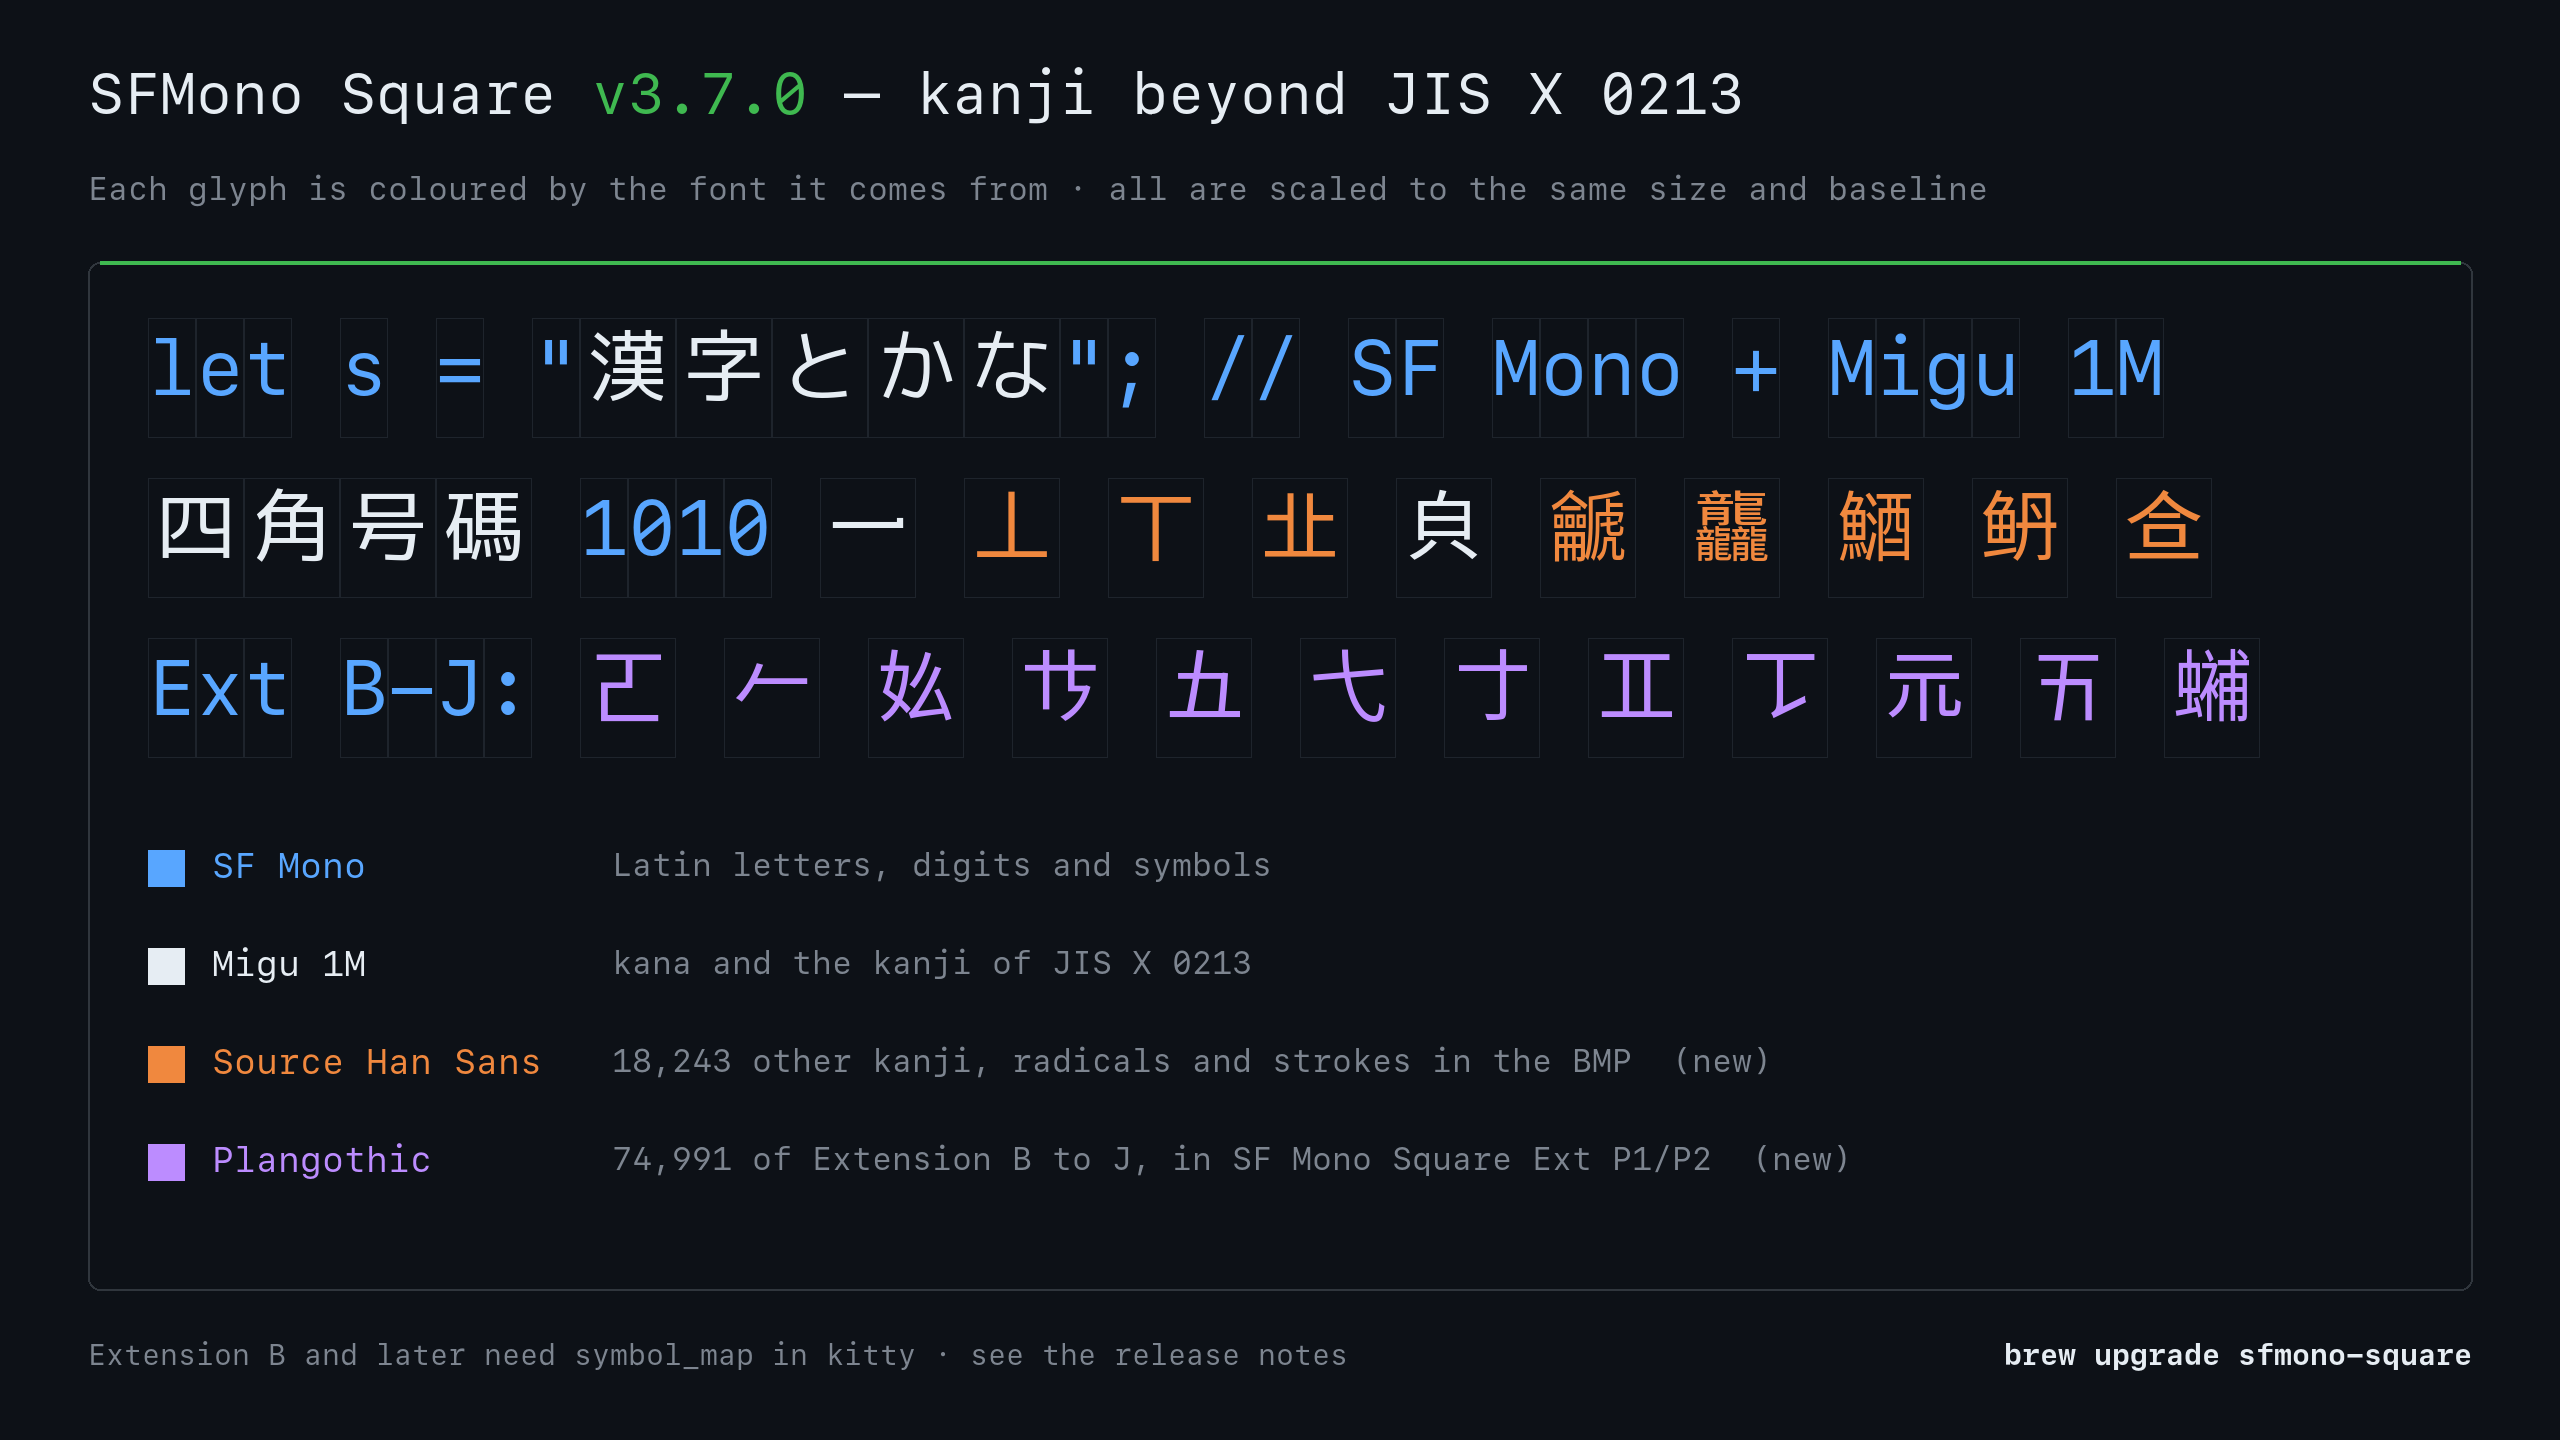
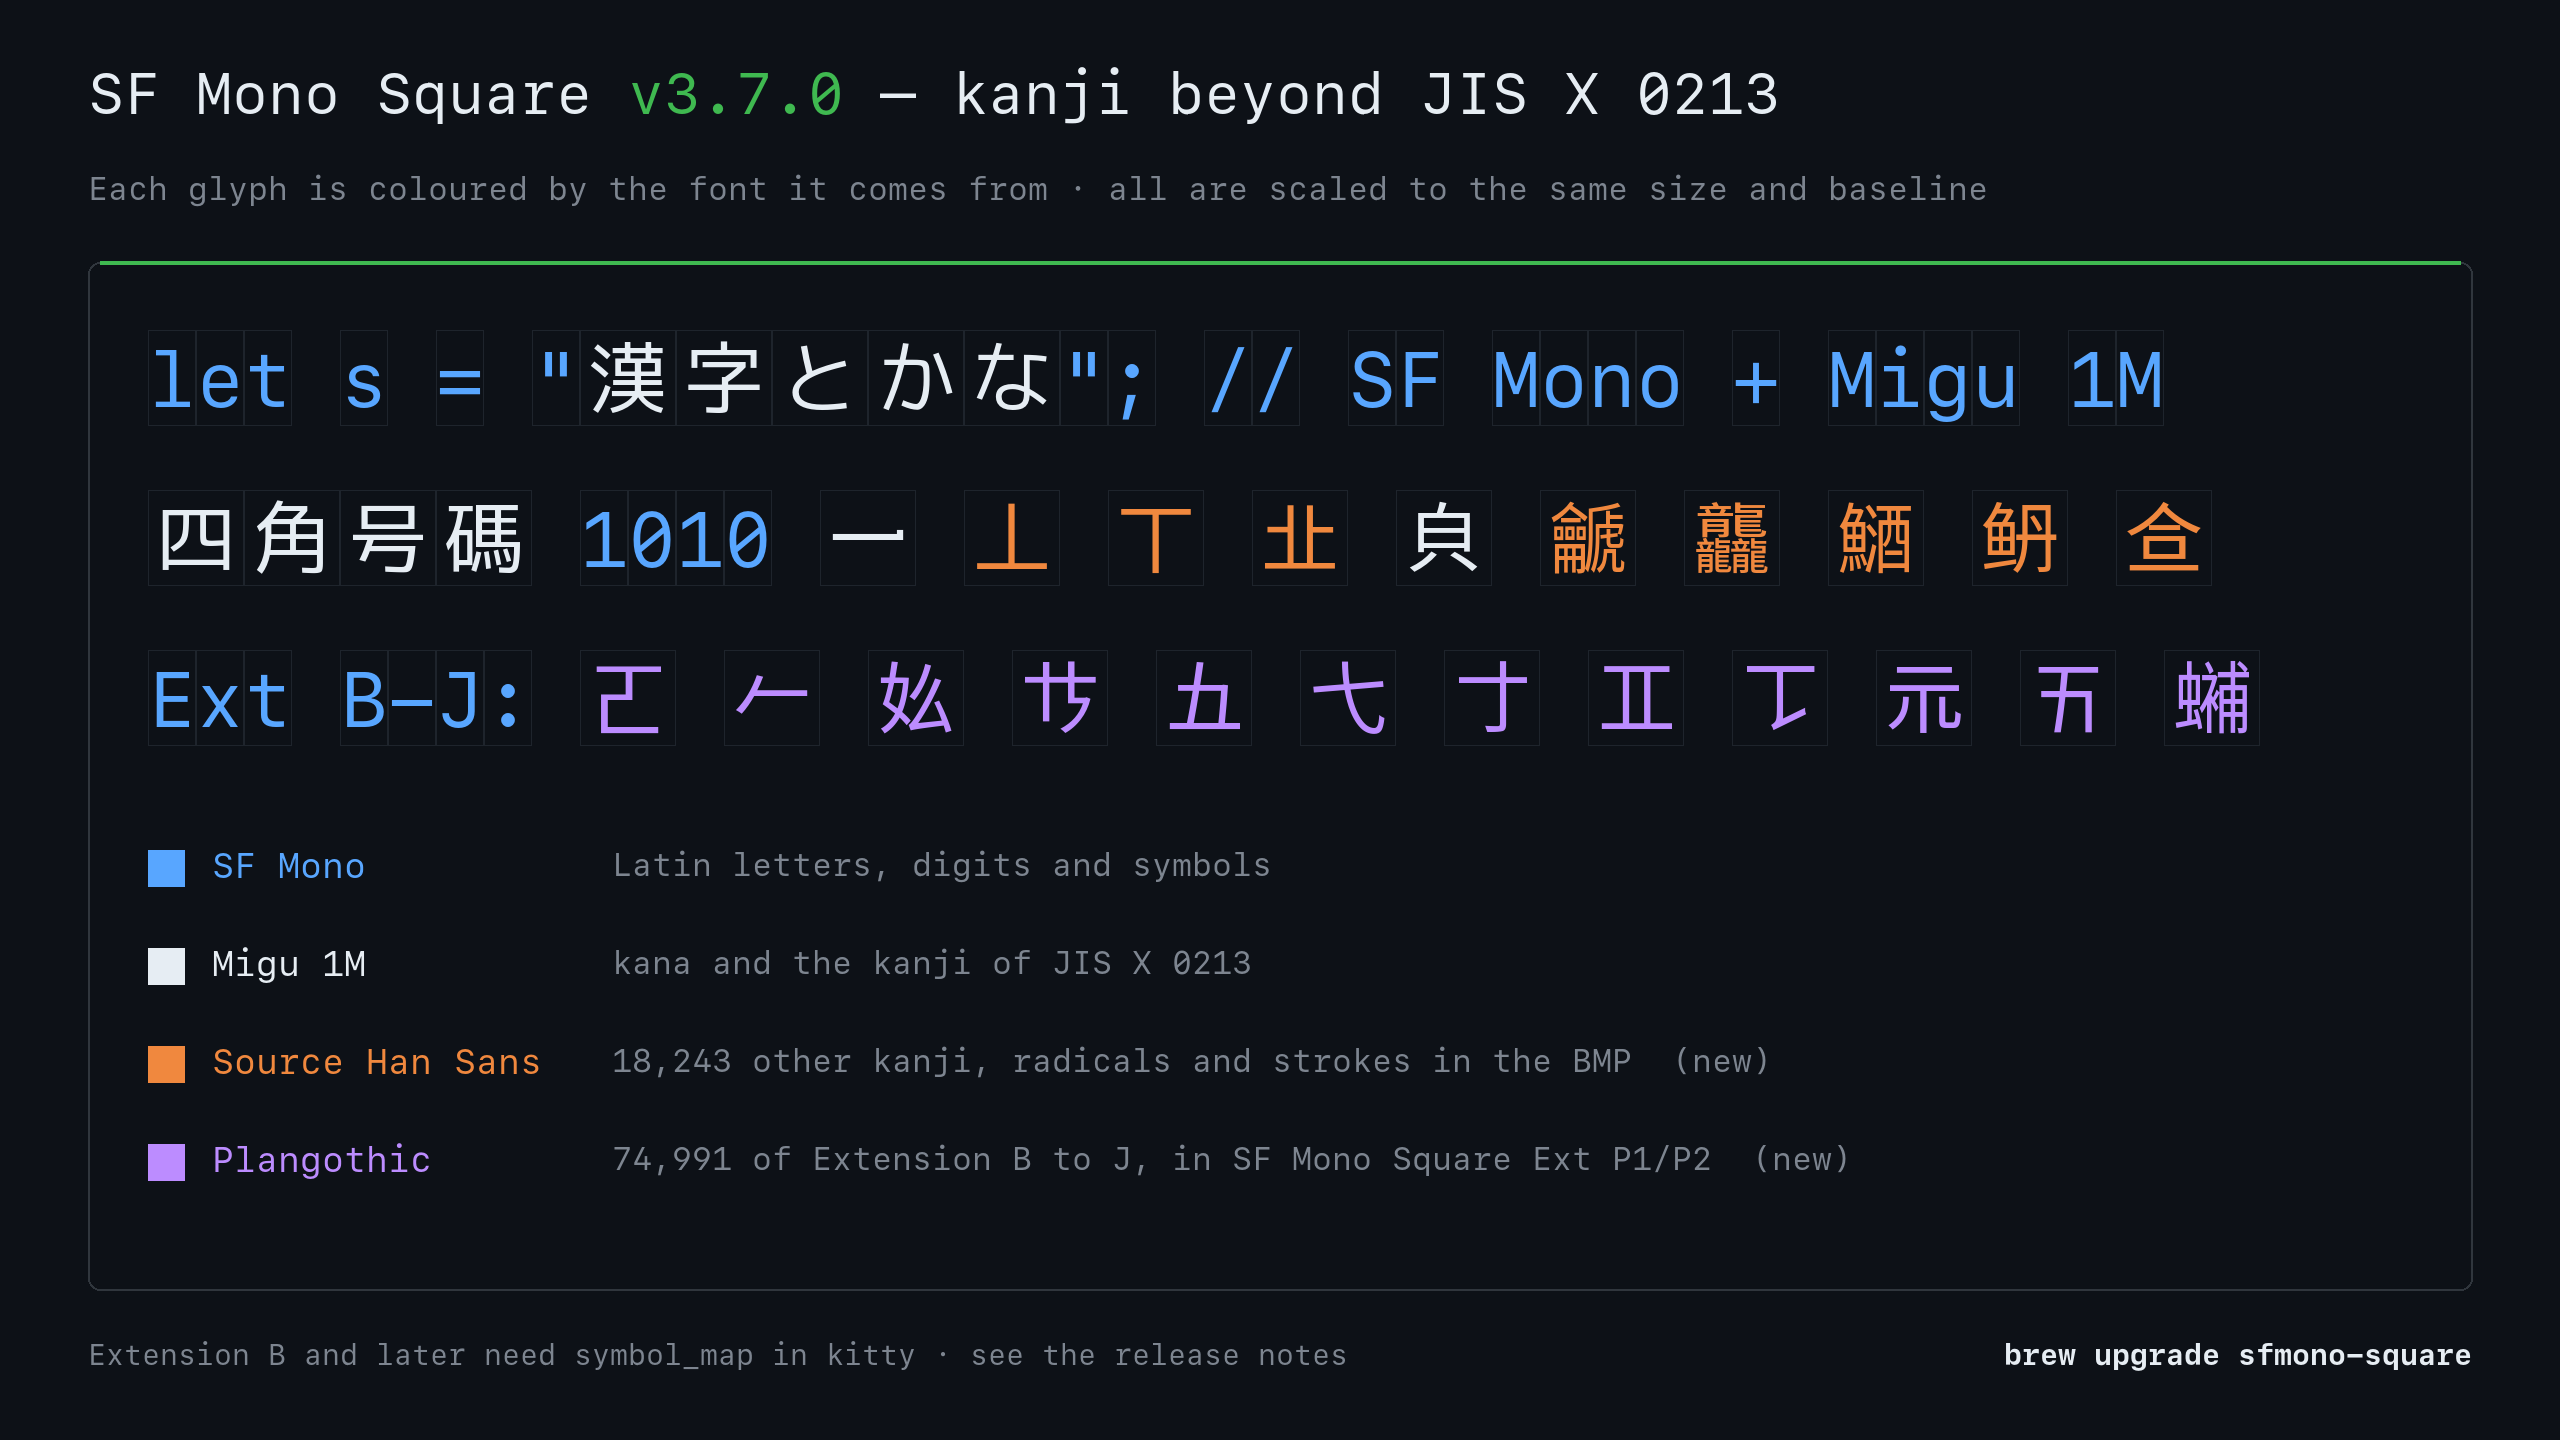
docs: renew the images of README, and note the Powerline separators out of the row (#159)
* docs: renew the images of README, and note the Powerline separators out of the row

- Put an image drawn with SF Mono Square at the top, a terminal on a grid of cells in which a
  Japanese letter takes two cells.
- Draw the image of the weights again on a narrower canvas, with larger samples and closer rows,
  and add the image of the kanji to the section on them.  Both are made for README; the images of
  the release notes stay as they are.
- Drop the section on the scaling of Nerd Fonts glyphs.  It is about v3.5.0, and the image is on
  the release of v3.5.0.
- Replace the screenshots of 2019-2021 with a gallery taken in kitty: Neovim, eza, sqlite3, tig,
  the Japanese help of Vim and btop.
- Add a known issue: a terminal that draws the Powerline separators from the font can show a pixel
  of them out of the row.  The details are in docs/powerline-separators.md.

* docs: make the cells of the image of the kanji an em high

A cell was 1.25 em high, so that two of them did not make a square.  The ascent and the descent of
SF Mono Square make an em, and a zenkaku glyph takes two cells of half an em, a square.  The glyphs
are put on the baseline now.

* docs: make the cells of the image of the kanji of v3.7.0 an em high

The image of the release notes of v3.7.0 had the same cells 1.25 em high as that of README.  The
release links to the image on master, so the release page shows this one once it is merged.
[…]

diff --git a/README.md b/README.md
@@ -1,23 +1,17 @@
-# SFMono Square - patched font: SFMono + Migu 1M + Nerd Fonts
+# SF Mono Square - patched font: SF Mono + Migu 1M + Nerd Fonts
 
-<img width="598" alt="スクリーンショット 0001-05-23 21 40 50" src="https://user-images.githubusercontent.com/1239245/58253912-802c3480-7da4-11e9-9936-1f68326b9c38.png">
+![SF Mono Square: a terminal with Japanese, Latin letters and Nerd Fonts icons on a grid of cells, in which a Japanese letter takes two cells](.github/images/readme-hero.png)
 
 ## What's this?
 
-**SF Mono** is a font from Apple, that is clear, easy to read, and suitable for programming.  **SFMono Square** is based on **SF Mono**, and added glyphs for Japanese & patched for [Nerd Fonts][].
+**SF Mono** is a font from Apple, that is clear, easy to read, and suitable for programming.  **SF Mono Square** is based on **SF Mono**, and added glyphs for Japanese & patched for [Nerd Fonts][].
 
-_Now, SF Mono Square v3 has completely the same codepoints as Nerd Fonts v3's ones._
+SF Mono Square has the same codepoints as Nerd Fonts v3.
+
+SF Mono Square is for macOS only.  The license of SF Mono does not allow it on any other operating
+system, and the formula builds the fonts on your Mac from the SF Mono it downloads from Apple.
 
 [Nerd Fonts]: https://github.com/ryanoasis/nerd-fonts
-
-### Nerd Fonts glyphs are scaled by measurement
-
-Since v3.5.0, a Nerd Fonts glyph is placed by mapping the design grid it was drawn on onto the
-cell, instead of the four constants per source that used to be tuned by eye.  Sizes and vertical
-centres line up across the icon sets, and the font carries 2 advance widths where it used to carry
-315.
-
-![The same icons from eight Nerd Fonts sets, drawn over the cell grid in v3.4.0 and in v3.5.0](.github/images/v3.5.0-scaling.png)
 
 Thoughts and detail description here:
 
@@ -32,11 +26,11 @@ Heavy — each with its italic.  Migu 1M has only Regular and Bold, so the Japan
 other weights are made from them: Light, Medium and Semibold by thinning or thickening the strokes
 of Regular, and Heavy uses those of Bold as they are.
 
-Regular, Bold and their italics make the family "SF Mono Square" just as before.  The other weights
-join it in the typographic family (name IDs 16 & 17); apps that do not read them list such a weight
-as a family of its own, such as "SF Mono Square Light".
+Regular, Bold and their italics make the family "SF Mono Square".  The other weights join it in the
+typographic family (name IDs 16 & 17); apps that do not read them list such a weight as a family of
+its own, such as "SF Mono Square Light".
 
-![SFMono Square in Light, Regular, Medium, Semibold, Bold and Heavy, upright and italic](.github/images/v3.6.0-weights.png)
+![SF Mono Square in Light, Regular, Medium, Semibold, Bold and Heavy, upright and italic](.github/images/readme-weights.png)
 
 ### Kanji beyond JIS X 0213
 
@@ -46,6 +40,8 @@ the radicals and the strokes — are taken from Source Han Sans, scaled to the s
 merged into SF Mono Square.  Each weight is filled with the weight of Source Han Sans of the
 closest ink density: Normal for Light, Regular for Regular, Medium for Medium and Semibold, and
 Bold for Bold and Heavy.
+
+![Glyphs of SF Mono Square coloured by the font each comes from: SF Mono, Migu 1M, Source Han Sans and Plangothic, on a grid of cells](.github/images/readme-kanji.png)
 
 Extension B and later (more than 70,000 ideographs) do not fit in a font with the rest, as a font
 holds 65,535 glyphs at most.  They are made from Plangothic into 2 fonts of their own, "SF Mono
@@ -99,6 +95,17 @@ See screenshots for examples [here][].
 
 [here]: https://github.com/delphinus/homebrew-sfmono-square/issues/9#issuecomment-515827269
 
+## Known issues
+
+### Powerline separators out of the row by a pixel
+
+A terminal that draws the Powerline separators (U+E0B0 and the others) from the font can show a
+pixel of them above or below their row, as it rounds the baseline to a pixel.  This cannot be fixed
+in the font.  Let the terminal draw them by itself: kitty and Ghostty always do, WezTerm does by
+default (`custom_block_glyphs = true`), and iTerm2 does with "Use built-in Powerline glyphs" in
+Settings → Profiles → Text.  Terminal.app has no such option.  See
+[the details](docs/powerline-separators.md).
+
 ## Release
 
 1. Write the release notes in `.github/release-notes/vX.Y.Z.md`. The first line is the title of the release, and the rest is its body.
@@ -113,14 +120,28 @@ When the push to `master` did not start the build check (for example, `[skip ci]
 
 [the release workflow]: .github/workflows/release.yml
 
-## Screen Shots
+## Gallery
 
-<img width="746" alt="スクリーンショット 0003-04-21 9 20 16" src="https://user-images.githubusercontent.com/1239245/115479188-d8b32780-a282-11eb-9571-4fdc811ddd7c.png">
+Neovim, with the file explorer of [snacks.nvim](https://github.com/folke/snacks.nvim) and [lualine.nvim](https://github.com/nvim-lualine/lualine.nvim):
 
-<img width="746" alt="スクリーンショット 0003-04-21 9 50 04" src="https://user-images.githubusercontent.com/1239245/115481194-0601d480-a287-11eb-8b03-c45f76d2371a.png">
+![Neovim editing a Lua file with Japanese comments, with a file tree and a status line with icons](.github/images/gallery-nvim.png)
 
-<img width="746" alt="スクリーンショット 0001-05-23 21 47 37" src="https://user-images.githubusercontent.com/1239245/58253927-8e7a5080-7da4-11e9-9d6b-0520cea1438c.png">
+[eza](https://github.com/eza-community/eza) with `--icons`:
 
-<img width="746" alt="スクリーンショット 0001-05-23 21 42 22" src="https://user-images.githubusercontent.com/1239245/58253934-92a66e00-7da4-11e9-983d-1f90f9d8a846.png">
+![eza listing a tree of files with icons, some of them named in Japanese](.github/images/gallery-eza.png)
 
-<img width="746" alt="スクリーンショット 0001-05-23 21 43 33" src="https://user-images.githubusercontent.com/1239245/58253939-95a15e80-7da4-11e9-92d9-5e9693cfbccb.png">
+A table of SQLite with `-box`:
+
+![sqlite3 drawing a table with Japanese headers and values in box-drawing characters](.github/images/gallery-sqlite.png)
+
+[tig](https://github.com/jonas/tig):
+
+![tig showing a history of commits with Japanese messages and a graph of branches](.github/images/gallery-tig.png)
+
+The Japanese help of Vim from [vimdoc-ja](https://github.com/vim-jp/vimdoc-ja):
+
+![The Japanese help of eval() in Neovim](.github/images/gallery-help.png)
+
+[btop](https://github.com/aristocratos/btop):
+
+![btop drawing graphs of CPU and memory with braille patterns](.github/images/gallery-btop.png)

diff --git a/docs/powerline-separators.md b/docs/powerline-separators.md
@@ -1,0 +1,43 @@
+# Powerline separators out of the row by a pixel
+
+The Powerline separators (U+E0B0 and the others) of SF Mono Square are as tall as a cell: their
+top is at the ascent and their bottom at the descent.  A terminal that draws them from the font
+can still show a pixel of a separator above or below its row.  This cannot be fixed in the font.
+
+## Why
+
+The ascent of SF Mono Square is 1638/2048 of the em, which is not a whole number of pixels at most
+sizes.  At 18pt on a Retina display the em is 36px and the ascent is 28.79px.  A terminal puts the
+baseline on a whole pixel: on the 28th pixel the top of a separator is 0.79px above the row, and on
+the 29th its bottom is 0.21px below the row.  Either way a separator as tall as the row is out of it
+at one of the ends, and the antialiased edge shows as a pixel at the corners of the separator.
+
+Making the separators shorter only moves the problem.  To stay in the row at every size, they would
+have to lose almost a pixel (about 3% of the em at each end at 13pt), and then they would be shorter
+than the row, with a step against the background at the top or the bottom.
+
+The patcher used to make the separators 1% taller than the em, so that they bled 10.5 units out of
+the cell at each end.  That is 0.18px at 18pt on Retina.  Taking it away changed the brightness of
+the pixels out of the row by about 20%, and nothing that could be seen.
+
+## Terminals
+
+Most terminals draw the separators by themselves, filling the cell exactly, and do not show it.
+
+| Terminal | Draws the separators | Out of the row |
+|---|---|---|
+| kitty | by itself, always | no |
+| Ghostty | by itself | no |
+| WezTerm | by itself with `custom_block_glyphs = true` (the default) | no |
+| WezTerm | from the font with `custom_block_glyphs = false` | yes, above the row at 13pt, 16pt and 18pt |
+| iTerm2 | by itself with "Use built-in Powerline glyphs" on | no |
+| iTerm2 | from the font with it off | yes, above the row at 13pt and 18pt, below at 16pt |
+| Terminal.app | from the font, always | faint, below the row at 16pt only |
+
+Terminal.app makes a row about 2px taller than the em at these sizes, so the separators stay in the
+row at 13pt and 18pt.
+
+These were measured on macOS with SF Mono Square v3.7.0 Regular at 13pt, 16pt and 18pt on a Retina
+display (WezTerm 20250730, Ghostty 1.4.0, iTerm2 3.7.9, Terminal.app 2.15).  A line of Powerline
+segments was printed with blank rows above and below it, and the pixels next to the top and the
+bottom of the segments that differed from the background were counted.

diff --git a/.github/release-notes/v3.6.0.md b/.github/release-notes/v3.6.0.md
@@ -1,6 +1,6 @@
 # Six weights, each with its italic
 
-![SFMono Square in Light, Regular, Medium, Semibold, Bold and Heavy, upright and italic](https://raw.githubusercontent.com/delphinus/homebrew-sfmono-square/master/.github/images/v3.6.0-weights.png)
+![SF Mono Square in Light, Regular, Medium, Semibold, Bold and Heavy, upright and italic](https://raw.githubusercontent.com/delphinus/homebrew-sfmono-square/master/.github/images/v3.6.0-weights.png)
 
 SF Mono comes in six weights, and so does SF Mono Square now: Light, Regular, Medium, Semibold,
 Bold and Heavy, each with its italic. That makes 12 fonts instead of 4.
